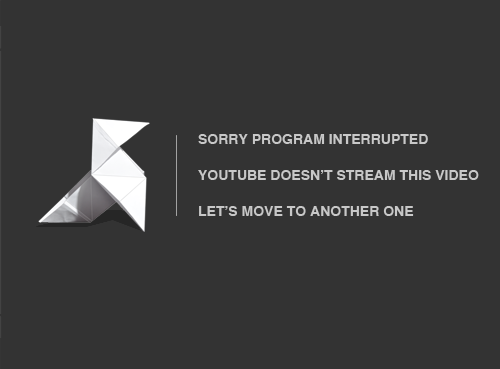
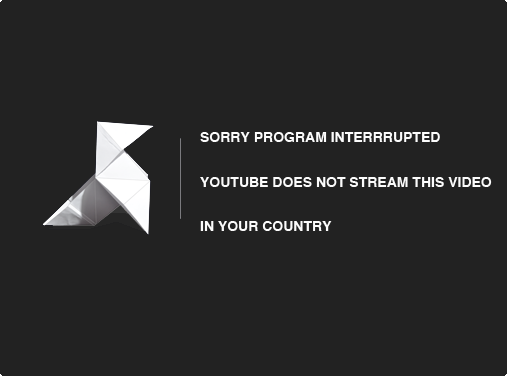
Cleaned up the code related to handle youtube errors

diff --git a/static/js/station/station.js b/static/js/station/station.js
@@ -193,7 +193,7 @@ function TracklistManager(){
 	this.uiTracklistController = new UITracklistController();
 	this.youtubeController = new YoutubeController();
 	
-	this.errorController = new ErrorController(this);
+	this.errorController = new ErrorController();
 	
 	if(allowed_to_post){
 		this.searchController = new YoutubeSearch(this);
@@ -262,9 +262,6 @@ TracklistManager.prototype = {
 			
 			time_out = expired_at - datetime_now/1000;
 			video_start = duration - time_out;
-			
-			// Put track in the error controller
-			this.errorController.addTrack(this.new_track);
 			
 			console.log("▶ New track launched: "+ this.new_track.title + " at " + video_start.toString() +" sec")	
 			this.youtubeController.init(this.new_track.id, video_start);
@@ -671,68 +668,13 @@ ListenerController.prototype = {
 
 /* --------------- ERROR CONTROLLER ------------------ */
 
-function ErrorController(tracklistManager){
-	this.working_tracks = [];
-	this.tracklistManager = tracklistManager;
+function ErrorController(){
 }
 
 ErrorController.prototype = {
-	
-	addTrack: function(newTrack){
-		console.log("track added in the working tracks")
-		this.working_tracks.push(newTrack);
-	},
-	
 	raise: function(){
-		
 		// Empty div and display GIF for a few seconds...
 		this.displayTransitionImage();
-
-		console.log(this.working_tracks);
-		// Removes the last video of the working videos array!
-		track_not_working = this.working_tracks.pop()
-		
-		// Calculate the time out (the time before the video was supposed to end)
-		expired_at = parseInt(track_not_working.expired,10);
-		datetime_now = Date.parse(new Date());
-		duration = parseInt(track_not_working.duration,10);
-		time_out = expired_at - datetime_now/1000;
-
-		// Retrieves the last video working
-		if(this.working_tracks.length == 0){
-			// El Guincho - Bombay is our standard track (in case there is no other working tracks in the array)
-			replacing_track = {
-				"id": "-CreEuaS8QY",
-				"duration": "269",
-			}
-		}
-		else{
-			replacing_track = this.working_tracks[this.working_tracks.length - 1];
-			if(replacing_track.duration > track_not_working.duration){
-				//it's ok
-			}
-			else{
-				replacing_track = {
-					"id": "-CreEuaS8QY",
-					"duration": "269",
-				}
-			}
-		}
-		
-		image_display_time = 5;
-		
-		// Calculate the video start
-		video_start = replacing_track.duration - time_out + image_display_time;
-
-		var that = this;
-		setTimeout(function(){
-			// Init video player
-			that.tracklistManager.youtubeController.init(replacing_track.id, video_start);
-			// Display progress
-			that.tracklistManager.displayProgress(video_start, replacing_track.duration);
-		}, image_display_time * 1000);
-
-		
 	},
 	
 	displayTransitionImage: function(){
@@ -742,7 +684,10 @@ ErrorController.prototype = {
 			.append(
 				$("<img/>")
 					.attr("src","/static/images/video-error.png")
-					.css("paddingLeft","1px")
+					.css({
+						"paddingLeft":"1px",
+						"width":"500px",
+					})
 			)
 	},
 	
